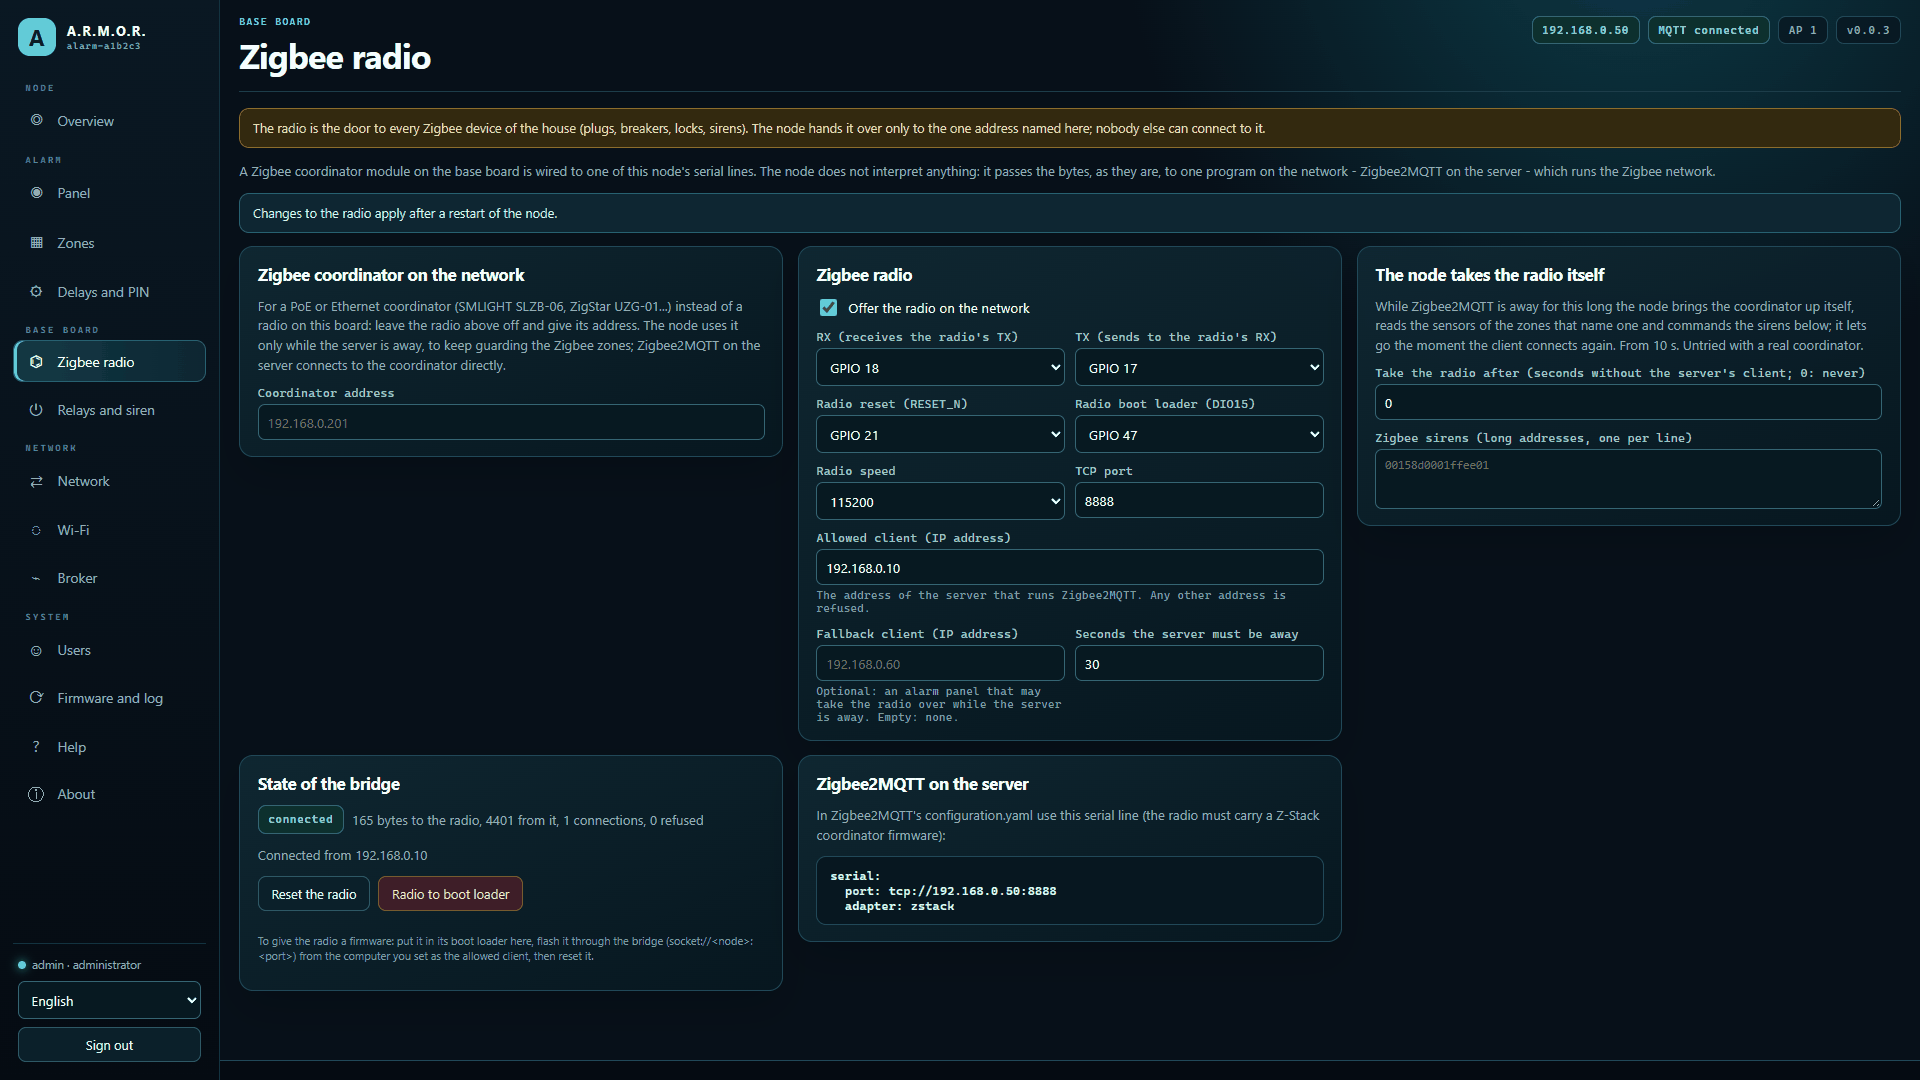
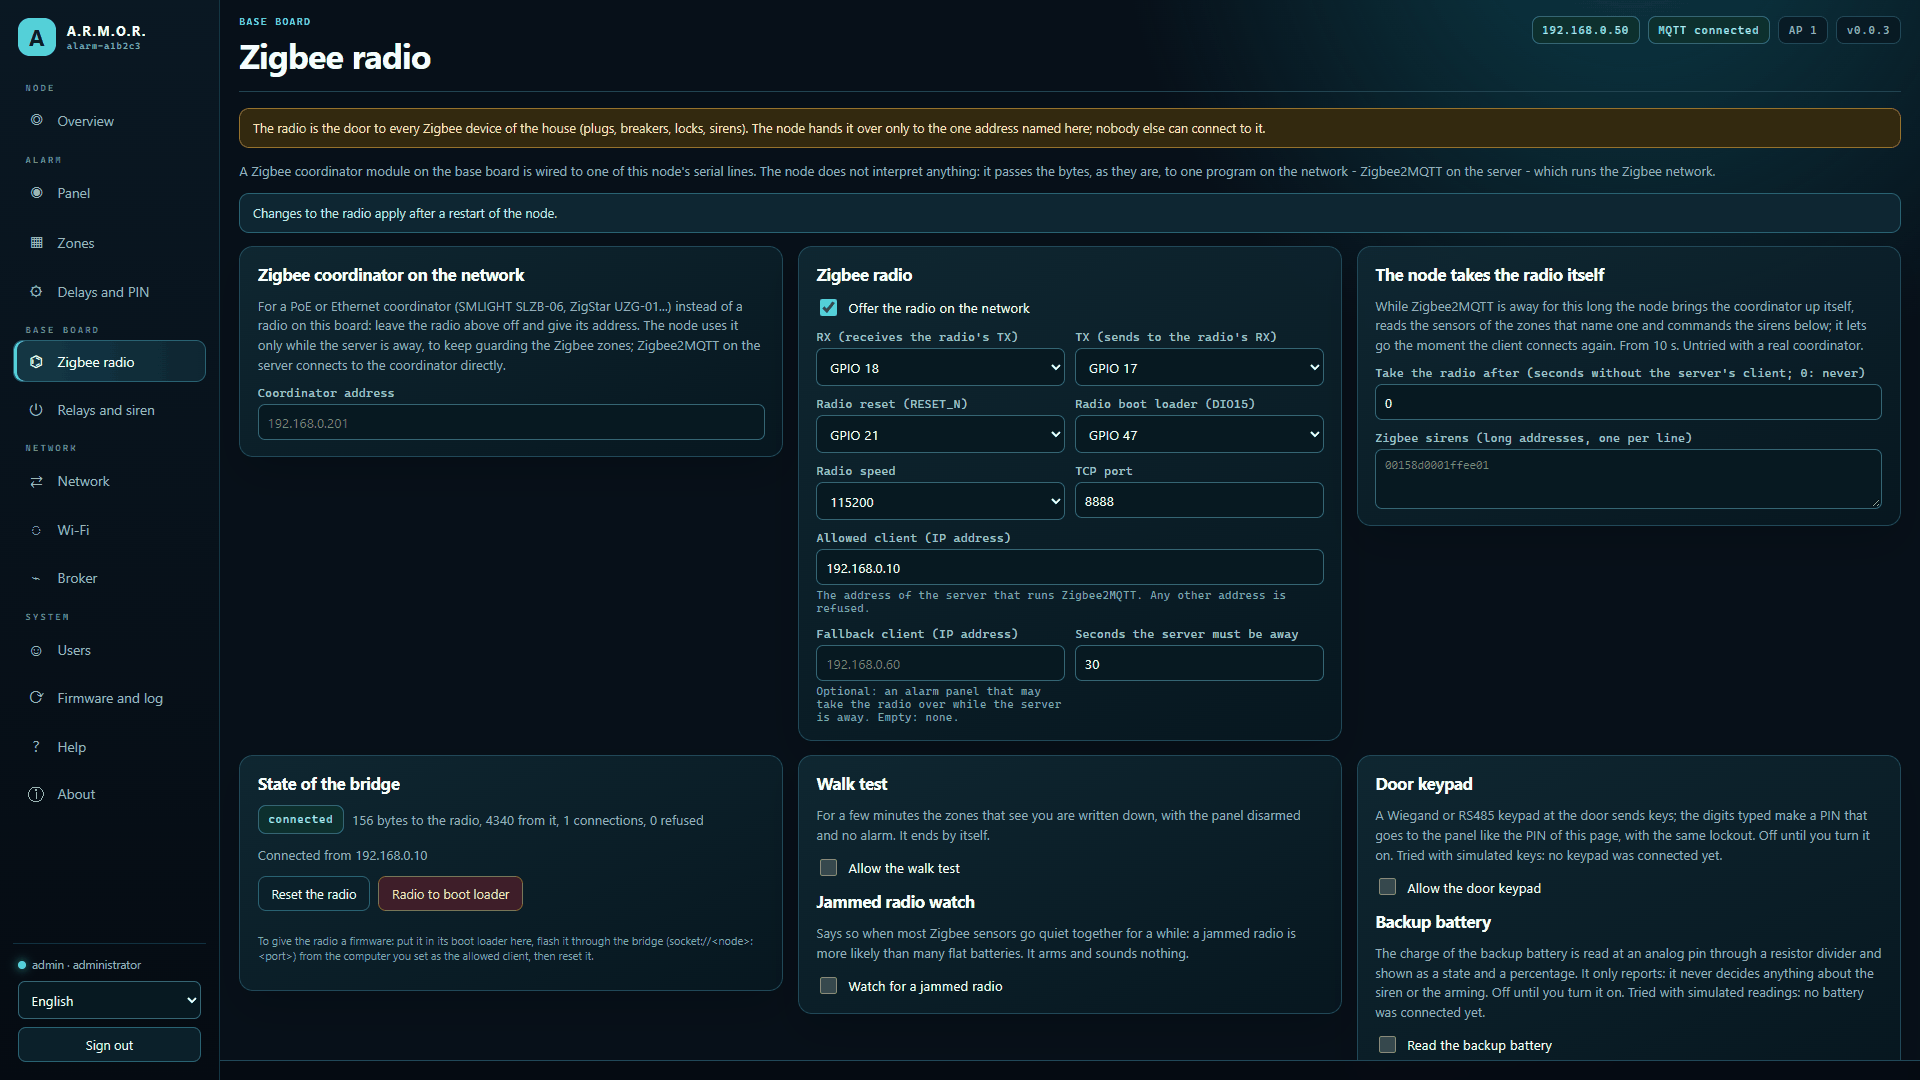
Release 0.5.8 (#46)
* Release 0.5.8

* Retake the README screenshots of the web panel

Changed region(s): [[0.7188, 0.7028, 0.9688, 0.9778], [0.4062, 0.7028, 0.6875, 0.9167]]

diff --git a/CHANGELOG.md b/CHANGELOG.md
@@ -4,37 +4,28 @@ All notable changes to this project are documented here.
 
 ## [Unreleased]
 
+## [0.5.8] - Signed orders and server policy, fixed pairing PIN, set-up access point password and persistent replay and lockout state
+
 - **The structure generator can write a figure read from the code:** `tools/make_structure.py` resolves `{{fact:NAME|LAST}}` in the descriptions of `docs/structure.json` where the documentation tools are next to the repository, and writes LAST (the figure it had when last written) everywhere else, so a repository still builds on its own.
 - **The README no longer types the number of checks the host programs count:** the Tests row of At a glance, the Tests badge and the build sentence give the host test programs and the Python checks that `ctest` registers, read from the code; the total of checks changes with every test and was only ever a typed number.
 - **The Security and Updates lights of the Project status table follow the evidence ceiling:** they cannot be above what the Hardware row may show for the evidence of the manifest, and Security is never green; the rows that were higher are now orange in the eight READMEs, and `tools/status_lights.py` is the new shared copy.
-
 - **The file tree of the README is drawn from the structure source:** the text tree in the eight READMEs is generated from `docs/structure.json`, the file that also draws the picture, so the two cannot disagree.
 - **The README trees list `firmware_base.lock` and the architecture picture is redrawn with rounded coordinates:** the file that records the version of the shared base this copy was synced from appears in the text tree of the eight READMEs, and the legend positions of the picture carry no floating-point noise.
 - **The repository structure picture lists `firmware_base.lock`:** the file that records the version of the shared base this copy was synced from now appears in the picture, in the eight languages.
 - **The shared tools of the manifest and the status lights gain an opt-in strict check of the evidence:** `sync_manifests.py` and `status_lights.py` take `--strict-evidence` (off by default; `ARMOR_STRICT_EVIDENCE=1` switches it on for `armor_ci_validate.py`).
 - **A refused firmware can be erased from its slot:** the setting `security.ota_invalidate_rejected` (off by default, shown in the web panel in eight languages) erases the first sector of the slot a downloaded image was written to when that image is refused after it was complete (another project, another version than the release, not newer, a bad signature, or no way to boot it) and when a copy of the running slot does not end well, so a later fault cannot start it. The slot that runs is never touched.
-
 - **The Bluetooth pairing PIN can be a fixed one:** `ble.passkey_mode` now also takes `fixed`, with the six digits in `ble.passkey_pin` (kept and sealed like the node's passwords, never shown by the panel; the mode needs the PIN). The default is as before: the PIN derived from the setup code.
-
 - **The set-up access point can have a Wi-Fi password of its own:** the new setting `ap.setup_password` (8 to 63 characters, a secret, shown in the web panel) replaces the setup code of the label as the password of the access point a node without users opens. Empty by default, so nodes already installed keep their password; with it set, the code of the label no longer opens that Wi-Fi.
-
 - **The panel shows the switches of the signed orders:** the web panel gets the key of the signed orders (`server.command_key`) and the switch `security.control_require_sig`, in eight languages.
-
 - **The policy message of the server can be required to be signed:** the new setting `server.policy_signature` (`off` by default, `policy` or `on`, shown in the web panel in eight languages) makes the panel read `armor/alarm/<node>/policy` only when it carries a good signature made with `command_key`, so a message on the broker cannot lower the PIN or switch the signature off. With `on` and no key the settings are refused.
-
 - **The signature code is the shared one:** `core/command_sig.hpp` and `core/hmac_sha256.hpp` come from the shared firmware base. The shared setting `security.control_require_sig` (off by default) also makes the orders to the node itself require the signature, like `server.control_require_sig`.
-
 - **The limits against replays can survive a restart:** a new setting, `server.persist_replay_floor` (off by default, shown in the web panel), keeps the highest timestamp of a signed command taken and the last sequence number of the zone feed in flash, at most every 30 seconds, and takes them back at start, so a recorded signed command cannot be played again after a restart.
-
 - **The simulation bench keeps a matrix of the faults it played:** the run writes a report of which fault of the bus passed, failed or was not run, prints it as one line of a bus-by-fault matrix in the summary of the run, and keeps both files as an artifact for two weeks. The matrix says what the simulated bus covered; it says nothing about the real equipment.
-
 - **The wrong PINs counted towards a lockout are kept across a restart:** a power cut between two guesses no longer gives a fresh set of tries. The saved state carries the count (never more than one short of a lockout), a right PIN clears it, and `panel.persist_wrong_pins` in the node panel (on by default) turns it off to keep the count in RAM only.
 - **The copy of the running firmware to the other slot waits for an install or a manual write that is on:** `start_copy()` takes the same lock as `install()` and the manual writes (not only the flag of its own job) and gives it back when it ends, so two writers can no longer open the same slot.
 - **The manual firmware upload and the change of boot slot take the same lock as an installation from GitHub and a copy of the slot:** only one of them writes or reads the slot at a time (a second one is answered `409 ota_busy`), and the buffers of the upload and of the slot check are no longer shared between the two web servers. Before, an upload could overlap another writer or an upload through the other server and end in a corrupt image. Not run on a board; the build is checked in CI.
 - **The notices from Zigbee sensors that nobody has collected are capped at 64:** while the node is paused or in standby the oldest notice is dropped when a new one arrives, so the memory cannot grow without limit. Tested with a hundred notices.
-
 - **The order channel of the node can check a signature before it reads anything:** `node_control::Options` has an optional `authorize` hook that sees each order that arrives on `armor/control/...` and drops it, before it can arm anything, when the node says no. A node that does not set it behaves as before.
-
 - **Orders to the alarm node itself can require the server signature (fail closed):** the new setting `server.control_require_sig` (off by default, so a server that does not sign them yet keeps working) makes the node read pause, standby, restart and the other orders of `armor/control/...` only when they carry a good HMAC signature made with `server.command_key` and a nonce not seen before; with it on and no valid key, none is read. An order that carries a signature is checked even with the setting off, and the nonce and signature are taken off before the order is read. Tested on a computer: unsigned, wrongly signed, replayed, stale, altered and keyless orders are refused.
 
 ## [0.5.7] - Door keypad, backup battery, walk test, signed commands, random Bluetooth PIN and guarded firmware upload

diff --git a/README_jpn.md b/README_jpn.md
@@ -23,7 +23,7 @@
   <img src="https://img.shields.io/badge/Zones-wired%20%2B%20Zigbee-ffb020.svg" alt="Zones">
   <img src="https://img.shields.io/badge/Checks-489%2C145-2ea44f.svg" alt="Checks">
   <img src="https://img.shields.io/badge/Tests-31%20host%20programs-2ea44f.svg" alt="Tests">
-  <img src="https://img.shields.io/badge/Version-0.5.7-0f6cbd.svg" alt="Version">
+  <img src="https://img.shields.io/badge/Version-0.5.8-0f6cbd.svg" alt="Version">
   <img src="https://img.shields.io/badge/Maturity-functional-00E5FF.svg" alt="Maturity">
 </p>
 
@@ -37,7 +37,7 @@
 
 | | |
 |---|---|
-| バージョン | `0.5.7` |
+| バージョン | `0.5.8` |
 | 成熟度 | 機能する |
 | 役割 | ESP32-S3 用アラームパネルのフィールドノード（ファミリー：Field Nodes、親：ARMOR-COMMON） |
 | 技術 | C++17, ESP-IDF 5.5.5, ESP32-S3 |

diff --git a/README_fra.md b/README_fra.md
@@ -23,7 +23,7 @@
   <img src="https://img.shields.io/badge/Zones-wired%20%2B%20Zigbee-ffb020.svg" alt="Zones">
   <img src="https://img.shields.io/badge/Checks-489%2C145-2ea44f.svg" alt="Checks">
   <img src="https://img.shields.io/badge/Tests-31%20host%20programs-2ea44f.svg" alt="Tests">
-  <img src="https://img.shields.io/badge/Version-0.5.7-0f6cbd.svg" alt="Version">
+  <img src="https://img.shields.io/badge/Version-0.5.8-0f6cbd.svg" alt="Version">
   <img src="https://img.shields.io/badge/Maturity-functional-00E5FF.svg" alt="Maturité">
 </p>
 
@@ -37,7 +37,7 @@
 
 | | |
 |---|---|
-| Version | `0.5.7` |
+| Version | `0.5.8` |
 | Maturité | Fonctionnel |
 | Rôle | Nœud de terrain centrale d'alarme pour ESP32-S3 (famille : Field Nodes, parent : ARMOR-COMMON) |
 | Technologie | C++17, ESP-IDF 5.5.5, ESP32-S3 |

diff --git a/README_ita.md b/README_ita.md
@@ -23,7 +23,7 @@
   <img src="https://img.shields.io/badge/Zones-wired%20%2B%20Zigbee-ffb020.svg" alt="Zones">
   <img src="https://img.shields.io/badge/Checks-489%2C145-2ea44f.svg" alt="Checks">
   <img src="https://img.shields.io/badge/Tests-31%20host%20programs-2ea44f.svg" alt="Test">
-  <img src="https://img.shields.io/badge/Version-0.5.7-0f6cbd.svg" alt="Versione">
+  <img src="https://img.shields.io/badge/Version-0.5.8-0f6cbd.svg" alt="Versione">
   <img src="https://img.shields.io/badge/Maturity-functional-00E5FF.svg" alt="Maturità">
 </p>
 
@@ -37,7 +37,7 @@
 
 | | |
 |---|---|
-| Versione | `0.5.7` |
+| Versione | `0.5.8` |
 | Maturità | Funzionale |
 | Ruolo | Nodo di campo centrale di allarme per ESP32-S3 (famiglia: Field Nodes, padre: ARMOR-COMMON) |
 | Tecnologia | C++17, ESP-IDF 5.5.5, ESP32-S3 |

diff --git a/README_spa.md b/README_spa.md
@@ -23,7 +23,7 @@
   <img src="https://img.shields.io/badge/Zones-wired%20%2B%20Zigbee-ffb020.svg" alt="Zones">
   <img src="https://img.shields.io/badge/Checks-489%2C145-2ea44f.svg" alt="Checks">
   <img src="https://img.shields.io/badge/Tests-31%20host%20programs-2ea44f.svg" alt="Pruebas">
-  <img src="https://img.shields.io/badge/Version-0.5.7-0f6cbd.svg" alt="Versión">
+  <img src="https://img.shields.io/badge/Version-0.5.8-0f6cbd.svg" alt="Versión">
   <img src="https://img.shields.io/badge/Maturity-functional-00E5FF.svg" alt="Madurez">
 </p>
 
@@ -37,7 +37,7 @@
 
 | | |
 |---|---|
-| Versión | `0.5.7` |
+| Versión | `0.5.8` |
 | Madurez | Funcional |
 | Función | Nodo de campo central de alarma para ESP32-S3 (familia: Field Nodes, padre: ARMOR-COMMON) |
 | Tecnología | C++17, ESP-IDF 5.5.5, ESP32-S3 |

diff --git a/README_deu.md b/README_deu.md
@@ -23,7 +23,7 @@
   <img src="https://img.shields.io/badge/Zones-wired%20%2B%20Zigbee-ffb020.svg" alt="Zones">
   <img src="https://img.shields.io/badge/Checks-489%2C145-2ea44f.svg" alt="Checks">
   <img src="https://img.shields.io/badge/Tests-31%20host%20programs-2ea44f.svg" alt="Tests">
-  <img src="https://img.shields.io/badge/Version-0.5.7-0f6cbd.svg" alt="Version">
+  <img src="https://img.shields.io/badge/Version-0.5.8-0f6cbd.svg" alt="Version">
   <img src="https://img.shields.io/badge/Maturity-functional-00E5FF.svg" alt="Reifegrad">
 </p>
 
@@ -37,7 +37,7 @@
 
 | | |
 |---|---|
-| Version | `0.5.7` |
+| Version | `0.5.8` |
 | Reifegrad | Funktionsfähig |
 | Rolle | Alarmzentralen-Feldknoten für ESP32-S3 (Familie: Field Nodes, übergeordnet: ARMOR-COMMON) |
 | Technik | C++17, ESP-IDF 5.5.5, ESP32-S3 |

diff --git a/README_por.md b/README_por.md
@@ -23,7 +23,7 @@
   <img src="https://img.shields.io/badge/Zones-wired%20%2B%20Zigbee-ffb020.svg" alt="Zones">
   <img src="https://img.shields.io/badge/Checks-489%2C145-2ea44f.svg" alt="Checks">
   <img src="https://img.shields.io/badge/Tests-31%20host%20programs-2ea44f.svg" alt="Tests">
-  <img src="https://img.shields.io/badge/Version-0.5.7-0f6cbd.svg" alt="Version">
+  <img src="https://img.shields.io/badge/Version-0.5.8-0f6cbd.svg" alt="Version">
   <img src="https://img.shields.io/badge/Maturity-functional-00E5FF.svg" alt="Maturity">
 </p>
 
@@ -37,7 +37,7 @@
 
 | | |
 |---|---|
-| Versão | `0.5.7` |
+| Versão | `0.5.8` |
 | Maturidade | Funcional |
 | Função | Nó de campo central de alarme para ESP32-S3 (família: Field Nodes, pai: ARMOR-COMMON) |
 | Tecnologia | C++17, ESP-IDF 5.5.5, ESP32-S3 |

diff --git a/README_zho.md b/README_zho.md
@@ -23,7 +23,7 @@
   <img src="https://img.shields.io/badge/Zones-wired%20%2B%20Zigbee-ffb020.svg" alt="Zones">
   <img src="https://img.shields.io/badge/Checks-489%2C145-2ea44f.svg" alt="Checks">
   <img src="https://img.shields.io/badge/Tests-31%20host%20programs-2ea44f.svg" alt="Tests">
-  <img src="https://img.shields.io/badge/Version-0.5.7-0f6cbd.svg" alt="Version">
+  <img src="https://img.shields.io/badge/Version-0.5.8-0f6cbd.svg" alt="Version">
   <img src="https://img.shields.io/badge/Maturity-functional-00E5FF.svg" alt="Maturity">
 </p>
 
@@ -37,7 +37,7 @@
 
 | | |
 |---|---|
-| 版本 | `0.5.7` |
+| 版本 | `0.5.8` |
 | 成熟度 | 可用 |
 | 角色 | ESP32-S3 报警面板现场节点（家族：Field Nodes，上级：ARMOR-COMMON） |
 | 技术栈 | C++17, ESP-IDF 5.5.5, ESP32-S3 |

diff --git a/README.md b/README.md
@@ -23,7 +23,7 @@
   <img src="https://img.shields.io/badge/Zones-wired%20%2B%20Zigbee-ffb020.svg" alt="Zones">
   <img src="https://img.shields.io/badge/Checks-489%2C145-2ea44f.svg" alt="Checks">
   <img src="https://img.shields.io/badge/Tests-31%20host%20programs-2ea44f.svg" alt="Tests">
-  <img src="https://img.shields.io/badge/Version-0.5.7-0f6cbd.svg" alt="Version">
+  <img src="https://img.shields.io/badge/Version-0.5.8-0f6cbd.svg" alt="Version">
   <img src="https://img.shields.io/badge/Maturity-functional-00E5FF.svg" alt="Maturity">
 </p>
 
@@ -37,7 +37,7 @@
 
 | | |
 |---|---|
-| Version | `0.5.7` |
+| Version | `0.5.8` |
 | Maturity | Functional |
 | Role | Alarm panel field node for ESP32-S3 (family: Field Nodes, parent: ARMOR-COMMON) |
 | Stack | C++17, ESP-IDF 5.5.5, ESP32-S3 |
